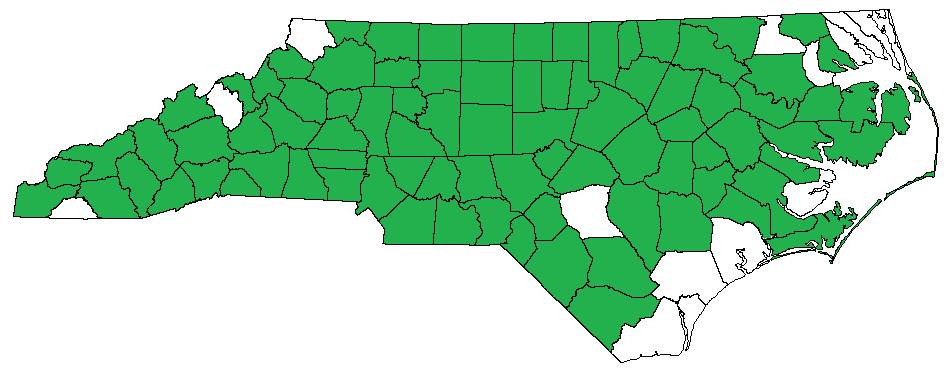
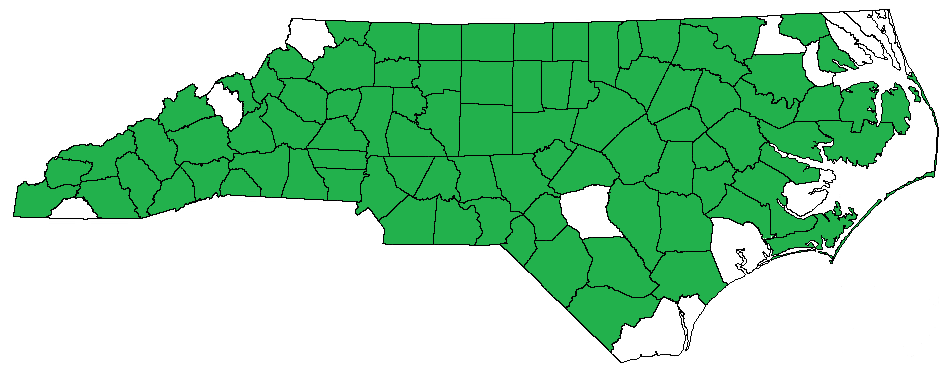
bbq 9/24/23

Changed region(s): [[0.6737, 0.6765, 0.7656, 0.8235]]

diff --git a/bbq/bbq-pics.html b/bbq/bbq-pics.html
@@ -1410,6 +1410,26 @@
 </button></center>
 
 <br>
+<p><b>Pender County</b></p>
+<p>Olde Carolina Eatery - Burgaw</p>
+<p><a id="oce"></p>
+<center><img id="image293" img-src="https://s3.us-east-1.wasabisys.com/cwclaib-website/NC-State-Page/bbq/Olde Carolina Eatery, Burgaw/20230923_110917.jpg" width="800"></img></center>
+<center><button type="button"
+        onclick="show( image293, this )" id="btnID">
+        Show Image
+</button></center>
+<center><img id="image294" img-src="https://s3.us-east-1.wasabisys.com/cwclaib-website/NC-State-Page/bbq/Olde Carolina Eatery, Burgaw/20230923_111415.jpg" width="800"></img></center>
+<center><button type="button"
+        onclick="show( image294, this )" id="btnID">
+        Show Image
+</button></center>
+<center><img id="image295" img-src="https://s3.us-east-1.wasabisys.com/cwclaib-website/NC-State-Page/bbq/Olde Carolina Eatery, Burgaw/20230923_112422.jpg" width="800"></img></center>
+<center><button type="button"
+        onclick="show( image295, this )" id="btnID">
+        Show Image
+</button></center>
+
+<br>
 <p><b>Person County</b></p>
 <p>Rox City Grill - Roxboro</p>
 <p><a id="rox"></p>

diff --git a/bbq/index.html b/bbq/index.html
@@ -58,10 +58,10 @@
 <br>
 <center>
 	<h2>Current County Counter</h2>
-	<h3><span style="color:red">86</span> / 100</h3>
-	<h3>112 different in-state BBQ joints</h3>
+	<h3><span style="color:red">87</span> / 100</h3>
+	<h3>113 different in-state BBQ joints</h3>
 	<h3>9 annual BBQ events</h3>
-	<p>(last updated 8/28/2023)</p>
+	<p>(last updated 9/24/2023)</p>
 </center>
 <br>
 
@@ -388,6 +388,11 @@
 <p><b>Perquimans County</b></p>
 <ul>
 	<li>Captain Bob's BBQ &amp; Seafood - Hertford - 1/29/2023 - <i><span class="ncbsbbq">True 'Cue NC</span></i> - <a href="bbq-pics.html#CptnBobs">pictures</a></li>
+</ul>
+<br>
+<p><b>Pender County</b></p>
+<ul>
+	<li>Olde Carolina Eatery - Burgaw - 9/23/2023 - <a href="bbq-pics.html#oce">pictures</a></li>
 </ul>
 <br>
 <p><b>Person County</b></p>
